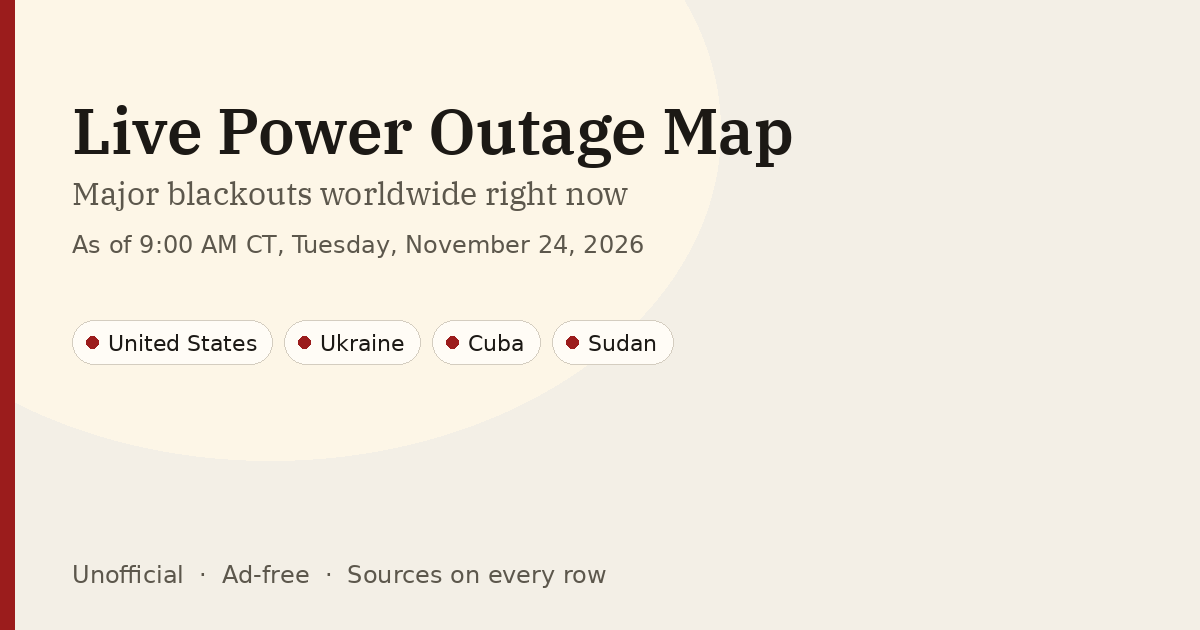
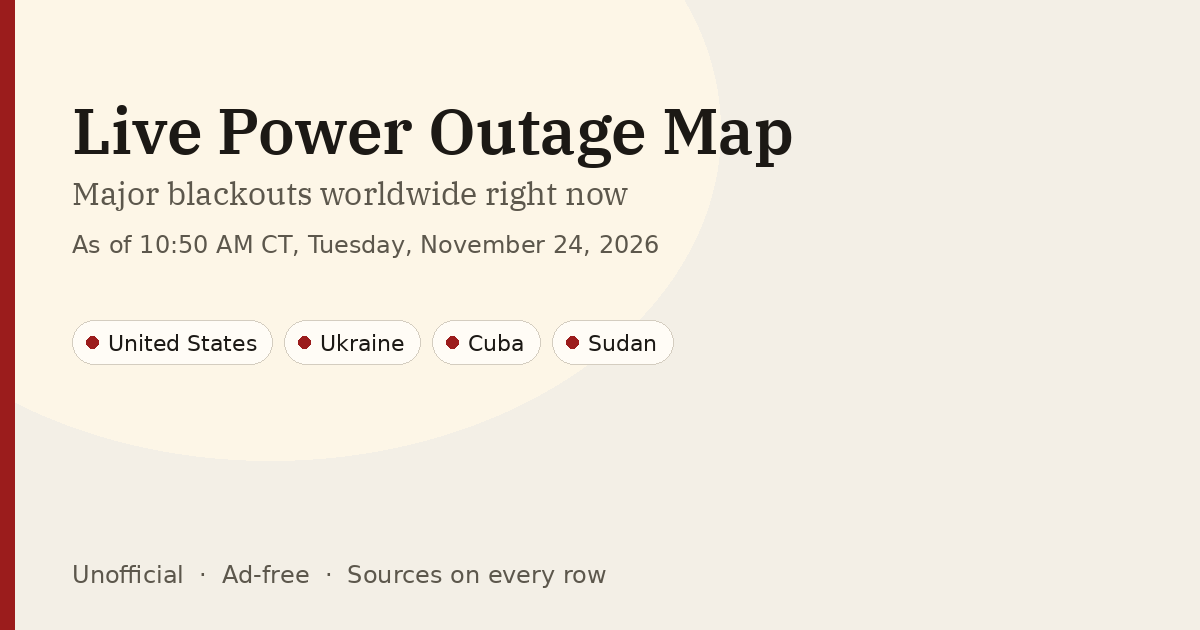
Update US outage data (11:12 AM CT)

Changed region(s): [[0.1233, 0.3619, 0.555, 0.4222]]

diff --git a/index.html b/index.html
@@ -62,7 +62,7 @@
       "about": {
         "@id": "https://blackoutsmap.com/#dataset"
       },
-      "dateModified": "2026-11-24T09:00:00-06:00",
+      "dateModified": "2026-11-24T10:50:00-06:00",
       "primaryImageOfPage": "https://blackoutsmap.com/og-image.png",
       "inLanguage": "en"
     },
@@ -73,8 +73,8 @@
       "description": "A frequently updated list of significant power outages and electricity shortfalls worldwide. Each record gives the place, country or region, cause, customers affected or MW shortfall, start time, estimated restoration time when published, the source URL, and when it was last checked. US figures come from MassOutage (CC BY 4.0), with some state and territory counts from PowerOutage.us; other rows come from utility, grid operator, and news reports linked on each row. US data refreshes about hourly; the worldwide list updates a few times a day.",
       "url": "https://blackoutsmap.com/",
       "isAccessibleForFree": true,
-      "dateModified": "2026-11-24T09:00:00-06:00",
-      "temporalCoverage": "2026-11-24T09:00:00-06:00",
+      "dateModified": "2026-11-24T10:50:00-06:00",
+      "temporalCoverage": "2026-11-24T10:50:00-06:00",
       "spatialCoverage": {
         "@type": "Place",
         "name": "Worldwide"
@@ -196,7 +196,7 @@
     <main>
     <header class="top">
       <h1>Live Power Outage Map</h1>
-      <p class="dateline">As of <strong id="as-of">9:00 AM CT, Tuesday, November 24, 2026</strong><br>Times in Central Time (CT)</p>
+      <p class="dateline">As of <strong id="as-of">10:50 AM CT, Tuesday, November 24, 2026</strong><br>Times in Central Time (CT)</p>
     </header>
 
     <p class="intro">This free, ad-free map tracks significant power outages and blackouts around the world right now. Each outage shows where it is, how many customers are affected, the cause, and the estimated restoration time when one is published, with a link to the source. It is unofficial: for your own address, check your electric utility's outage map. <a href="#faq">How this map works</a></p>
@@ -207,7 +207,7 @@
 
 
     <div class="metrics" id="metrics">
-      <article class="metric" id="metric-us"><!-- build:metric-us --><div class="label">United States</div><div class="value">46,744</div><div class="detail">46,744 customers out</div><!-- /build:metric-us --></article>
+      <article class="metric" id="metric-us"><!-- build:metric-us --><div class="label">United States</div><div class="value">70,536</div><div class="detail">70,536 customers out</div><!-- /build:metric-us --></article>
     </div>
 
     <nav class="region-nav" id="region-nav" aria-label="Outages by country">
@@ -249,12 +249,12 @@
             </tr>
           </thead>
           <tbody id="outage-body"><!-- build:table -->
-<tr><td class="place-cell"><a class="place-link" href="us/">United States</a></td><td>Nationwide</td><td class="empty">—</td><td>46,744 customers out</td><td class="empty">—</td><td class="empty">—</td><td><a href="https://massoutage.com/" target="_blank" rel="noopener noreferrer">MassOutage + PowerOutage.us</a></td><td>9:00 AM CT</td></tr>
-<tr><td class="place-cell"><a class="place-link" href="us/">Texas</a></td><td>United States</td><td class="empty">—</td><td>5,839 customers out</td><td class="empty">—</td><td class="empty">—</td><td><a href="https://massoutage.com/texas" target="_blank" rel="noopener noreferrer">MassOutage</a></td><td>9:00 AM CT</td></tr>
-<tr><td class="place-cell"><a class="place-link" href="us/">South Carolina</a></td><td>United States</td><td class="empty">—</td><td>4,663 customers out</td><td class="empty">—</td><td class="empty">—</td><td><a href="https://massoutage.com/south-carolina" target="_blank" rel="noopener noreferrer">MassOutage</a></td><td>9:00 AM CT</td></tr>
-<tr><td class="place-cell"><a class="place-link" href="us/">California</a></td><td>United States</td><td class="empty">—</td><td>4,592 customers out</td><td class="empty">—</td><td class="empty">—</td><td><a href="https://poweroutage.us/area/state/california" target="_blank" rel="noopener noreferrer">PowerOutage.us</a></td><td>2:13 AM CT</td></tr>
-<tr><td class="place-cell"><a class="place-link" href="us/">New Jersey</a></td><td>United States</td><td class="empty">—</td><td>3,205 customers out</td><td class="empty">—</td><td class="empty">—</td><td><a href="https://massoutage.com/new-jersey" target="_blank" rel="noopener noreferrer">MassOutage</a></td><td>9:00 AM CT</td></tr>
-<tr><td class="place-cell"><a class="place-link" href="us/">North Carolina</a></td><td>United States</td><td class="empty">—</td><td>2,737 customers out</td><td class="empty">—</td><td class="empty">—</td><td><a href="https://massoutage.com/north-carolina" target="_blank" rel="noopener noreferrer">MassOutage</a></td><td>9:00 AM CT</td></tr>
+<tr><td class="place-cell"><a class="place-link" href="us/">United States</a></td><td>Nationwide</td><td class="empty">—</td><td>70,536 customers out</td><td class="empty">—</td><td class="empty">—</td><td><a href="https://massoutage.com/" target="_blank" rel="noopener noreferrer">MassOutage + PowerOutage.us</a></td><td>10:50 AM CT</td></tr>
+<tr><td class="place-cell"><a class="place-link" href="us/">Washington</a></td><td>United States</td><td class="empty">—</td><td>15,820 customers out</td><td class="empty">—</td><td class="empty">—</td><td><a href="https://massoutage.com/washington" target="_blank" rel="noopener noreferrer">MassOutage</a></td><td>10:50 AM CT</td></tr>
+<tr><td class="place-cell"><a class="place-link" href="us/">California</a></td><td>United States</td><td class="empty">—</td><td>10,097 customers out</td><td class="empty">—</td><td class="empty">—</td><td><a href="https://massoutage.com/california" target="_blank" rel="noopener noreferrer">MassOutage</a></td><td>10:50 AM CT</td></tr>
+<tr><td class="place-cell"><a class="place-link" href="us/">Texas</a></td><td>United States</td><td class="empty">—</td><td>5,804 customers out</td><td class="empty">—</td><td class="empty">—</td><td><a href="https://massoutage.com/texas" target="_blank" rel="noopener noreferrer">MassOutage</a></td><td>10:50 AM CT</td></tr>
+<tr><td class="place-cell"><a class="place-link" href="us/">North Carolina</a></td><td>United States</td><td class="empty">—</td><td>2,729 customers out</td><td class="empty">—</td><td class="empty">—</td><td><a href="https://massoutage.com/north-carolina" target="_blank" rel="noopener noreferrer">MassOutage</a></td><td>10:50 AM CT</td></tr>
+<tr><td class="place-cell"><a class="place-link" href="us/">Oregon</a></td><td>United States</td><td class="empty">—</td><td>2,544 customers out</td><td class="empty">—</td><td class="empty">—</td><td><a href="https://massoutage.com/oregon" target="_blank" rel="noopener noreferrer">MassOutage</a></td><td>10:50 AM CT</td></tr>
 <tr><td class="place-cell"><a class="place-link" href="ukraine/">Kyiv and nationwide</a></td><td>Ukraine</td><td class="clamp-cell"><span class="clamp-preview">Rolling and emergency blackouts after Russian attacks on energy</span><span class="clamp-full" id="clamp-full-1">Rolling and emergency blackouts after Russian attacks on energy infrastructure, including a large-scale attack on Nov 20 and further strikes reported on Nov 21, Nov 22, and Nov 23. Hromadske Radio, in a Nov 24 report, said Russian forces had attacked civilian and energy infrastructure in Zhytomyr region over Nov 23 and into the night, and that on the morning of Tuesday, Nov 24, they attacked the north of Rivne region, with energy facilities under attack. Ukrenergo said planned outage schedules would be in effect around the clock on Tuesday, Nov 24, in parts of the country because of those attacks</span><button type="button" class="clamp-toggle" aria-expanded="false" aria-label="Show full text" aria-controls="clamp-full-1">…</button></td><td class="clamp-cell"><span class="clamp-preview">Ukrenergo, as reported by Ukrinform at 11:08 a.m. Tuesday, Nov 24 (3:08</span><span class="clamp-full" id="clamp-full-2">Ukrenergo, as reported by Ukrinform at 11:08 a.m. Tuesday, Nov 24 (3:08 a.m. CT) and by DS News at 11:48 a.m. Tuesday, Nov 24 (3:48 a.m. CT), said that as of Tuesday morning, as a result of Russian attacks, there were de-energized consumers in Zhytomyr, Zaporizhzhia, Rivne, Kharkiv, and Chernihiv regions, and that emergency outages were being applied in Kharkiv region as of that hour. Those reports, citing Ukrenergo, also said that on Tuesday, Nov 24, planned restrictions would be in effect around the clock in parts of Ukraine: hourly outage schedules of 0.5 to 3.5 groups, or queues, for all categories of consumers, and capacity-limitation schedules for industrial consumers. Hromadske Radio, in a Nov 24 report citing Ukrenergo, gave the same Tuesday-morning account of de-energized consumers in those five regions and of emergency outages in Kharkiv region, and said that over the previous day and night Russian forces had attacked civilian and energy infrastructure in Zhytomyr region, and that on the morning of Tuesday, Nov 24, they had attacked the north of Rivne region, with energy facilities under attack. An earlier Monday evening Ukrenergo statement, as reported by LB.ua at 7:20 p.m. Monday, Nov 23 (11:20 a.m. CT if Kyiv time / EET), by UNIAN at 8:59 p.m. Monday, Nov 23 (12:59 p.m. CT if Kyiv time / EET), and by UNN at 5:13 p.m. Monday, Nov 23 (9:13 a.m. CT if Kyiv time / EET), had already said that on Tuesday, Nov 24, scheduled power-supply restrictions would be in effect around the clock in parts of Ukraine because of the aftermath of Russian attacks on the energy system, with the same 0.5 to 3.5 queues for all categories of consumers and capacity-limitation schedules for industry. UNIAN, citing Ukrenergo, said those 0.5 to 3.5 queues amounted to about 2 to 14 hours without power, and UNN likewise said one group means four hours without electricity, so Tuesday outages may last from 2 to 14 hours. UNIAN also summarized Tuesday regional schedules, saying that in Sumy and the Sumy region the total duration without power would be from six to 14 hours; that in Lviv and the Lviv region some queues had no outages scheduled and the rest would be switched off once for two to four and a half hours; that in Poltava and the Poltava region customers would be switched off four times a day, except for two half-queues with three and five periods, with each outage lasting from half an hour to three and a half hours; and that Kyiv schedules would be applied individually and should be checked through local operators. LB.ua, in the same Nov 23 report, said that at present the most difficult situation with electricity supply remained in Dnipropetrovsk and Odesa regions. Kyiv Independent, in an article dated 9:19 p.m. Monday, Nov 23 (1:19 p.m. CT if Kyiv time / EET), citing the private energy company DTEK, said Russian attacks on four DTEK energy facilities in Dnipropetrovsk Oblast over Nov 21 and Nov 22 had left about 353,000 households without electricity, that emergency power cuts were in effect in Dnipro and the Dniprovskyi, Samarivskyi, Kamianskyi, and Pavlohradskyi districts, with regular outage schedules suspended there, and that other parts of the region were subject to scheduled cuts ordered by Ukrenergo. Earlier Monday, Kyiv Post, in an article dated 2:18 p.m. Monday, Nov 23 (7:18 a.m. CT if Kyiv time / EET), citing Ukraine&#x27;s Energy Ministry and First Deputy Energy Minister Artem Nekrasov, said Russia had carried out 100 attacks on Ukraine&#x27;s energy, oil, and gas infrastructure over the past week, contributing to 224 recorded damage incidents, and that power outages had continued to affect seven regions on Monday, Nov 23: Dnipropetrovsk, Donetsk, Zhytomyr, Sumy, Kharkiv, Odesa, and Poltava, with the situation remaining particularly difficult in Odesa and Dnipropetrovsk regions. No official nationwide customer count was found as of 6:00 AM CT Tuesday, Nov 24 (2:00 p.m. EET).</span><button type="button" class="clamp-toggle" aria-expanded="false" aria-label="Show full text" aria-controls="clamp-full-2">…</button></td><td class="empty">—</td><td class="empty">—</td><td><a href="https://www.ukrinform.ua/rubric-economy/4187973-cerez-rosijski-ataki-e-znestrumlenna-u-pati-oblastah-ukrenergo.html" target="_blank" rel="noopener noreferrer">ukrinform.ua</a></td><td class="clamp-cell"><span class="clamp-preview">Nov 24, 2026, Ukrenergo Tuesday morning statement via Ukrinform 11:08</span><span class="clamp-full" id="clamp-full-3">Nov 24, 2026, Ukrenergo Tuesday morning statement via Ukrinform 11:08 a.m. Tuesday, Nov 24 (= 3:08 a.m. CT) and DS News 11:48 a.m. Tuesday (= 3:48 a.m. CT), on de-energized consumers as of Tuesday morning in Zhytomyr, Zaporizhzhia, Rivne, Kharkiv, and Chernihiv regions after Russian attacks, and emergency outages being applied in Kharkiv region; Hromadske Radio, in a Nov 24 report, on attacks on civilian and energy infrastructure in Zhytomyr region over Nov 23 and into the night, and a Tuesday morning attack on energy facilities in northern Rivne region; earlier Monday evening Ukrenergo Tuesday, Nov 24, schedules of 0.5 to 3.5 queues around the clock, and industrial capacity limits, via LB.ua 7:20 p.m. Monday, Nov 23 (= 11:20 a.m. CT if Kyiv time / EET), UNIAN 8:59 p.m. Monday (= 12:59 p.m. CT if Kyiv time / EET), and UNN 5:13 p.m. Monday (= 9:13 a.m. CT if Kyiv time / EET), with UNIAN and UNN saying those queues amounted to about 2 to 14 hours, and LB.ua saying the most difficult supply situation remained in Dnipropetrovsk and Odesa regions; earlier Kyiv Independent dated 9:19 p.m. Monday, Nov 23 (= 1:19 p.m. CT if Kyiv time / EET), citing DTEK, on about 353,000 households without power in Dnipropetrovsk Oblast after attacks on four DTEK facilities on Nov 21-22; earlier Kyiv Post dated 2:18 p.m. Monday, Nov 23 (= 7:18 a.m. CT if Kyiv time / EET), citing the Energy Ministry and First Deputy Energy Minister Artem Nekrasov, on 100 attacks on energy, oil, and gas infrastructure in the past week with 224 damage incidents, and outages in seven regions on Monday with Odesa and Dnipropetrovsk among the hardest hit; rechecked 6:00 AM CT Tuesday, Nov 24 (2:00 p.m. EET), no official nationwide customer count found</span><button type="button" class="clamp-toggle" aria-expanded="false" aria-label="Show full text" aria-controls="clamp-full-3">…</button></td></tr>
 <tr><td class="place-cell"><a class="place-link" href="ukraine/">Odesa and parts of Odesa district</a></td><td>Odesa, Ukraine</td><td class="clamp-cell"><span class="clamp-preview">Repeated Russian attacks on high-voltage transmission networks and</span><span class="clamp-full" id="clamp-full-4">Repeated Russian attacks on high-voltage transmission networks and other energy facilities critical to the region, including a strike on a DTEK Odeski Elektromerezhi energy facility on the morning of Nov 20. On Monday, Nov 23, Odesa regional governor Oleh Kiper said scheduled power-outage timetables were being reinstated in place of emergency blackouts after energy workers restored damaged infrastructure, and DTEK Odeski Elektromerezhi said repairs had made a return to stabilization schedules possible, while warning that the energy system remained vulnerable to significant loads. Tuesday sources said those stabilization schedules remained in effect on Nov 24</span><button type="button" class="clamp-toggle" aria-expanded="false" aria-label="Show full text" aria-controls="clamp-full-4">…</button></td><td class="clamp-cell"><span class="clamp-preview">Ukrenergo, as published by Malva.TV at 7:49 a.m. Tuesday, Nov 24 (11:49</span><span class="clamp-full" id="clamp-full-5">Ukrenergo, as published by Malva.TV at 7:49 a.m. Tuesday, Nov 24 (11:49 p.m. CT Monday), said overnight restoration work had continued in Odesa region, where energy infrastructure had been significantly damaged by Russian attacks, that the situation in Odesa region had been partially stabilized, and that electricity supply to critical infrastructure in Odesa had been restored. Novyny.LIVE, at 9:31 a.m. Tuesday, Nov 24 (1:31 a.m. CT), citing DTEK, said DTEK Odeski Elektromerezhi was applying hourly stabilization-outage schedules in Odesa and the region on Tuesday, Nov 24, through 12:00 a.m., that outages were assigned by group, and that the schedule could change depending on the state of the energy system; the same report said tram and trolleybus service in Odesa had resumed after the widespread blackout, with average intervals of 15 to 20 minutes, and that from 9:00 a.m. to 6:00 p.m. Tuesday repair work in the Peresypskyi district would de-energize traction substations feeding tram routes 1 and 7 on a named section. OdesaVoice, in a Nov 24 report, citing First Deputy Mayor Oleksandr Filatov, said electricity supply to all critically important infrastructure in Odesa had been restored after two days of outages caused by strikes on main transmission networks, that water supply and wastewater systems were fully operating in all districts of the city, that all district and small boiler houses had been restored, that heat had begun to reach hospitals, educational institutions, other social facilities, and residential buildings, and that schools and kindergartens that had heat restored on Nov 23 would operate in the normal mode on Nov 24; the same report said 27 social buses were running to supplement trolleybuses and trams, and that about 300 Points of Invincibility were operating in the city. Odesa regional governor Oleh Kiper, as reported by LB.ua at 8:03 p.m. Monday, Nov 23 (12:03 p.m. CT if Kyiv time / EET), had said that in Odesa and Odesa District, scheduled power-outage timetables were being reinstated in place of emergency blackouts, that the return to planned schedules had become possible because of continuous work by energy workers restoring damaged infrastructure, and that residents were being urged to use electricity sparingly so as not to overload the power system and cause new emergency outages. DTEK Odeski Elektromerezhi, in a Nov 23 statement on its website, said that thanks to difficult repairs and the restoration of equipment, energy workers had been able to return to stabilization schedules, that the energy system remained vulnerable to significant loads, and that customers should not turn on all electrical appliances at once when power returned, in order to avoid overloading the networks and causing new accidents. An earlier Monday statement by Kiper, as reported by Censor.NET at 12:35 p.m. EET Monday, Nov 23 (4:35 a.m. CT), by UNN at 10:11 a.m. Kyiv time Monday (2:11 a.m. CT), and by Slovo i Dilo at 12:38 p.m. EET Monday (4:38 a.m. CT), had said the electricity-supply situation in Odesa region remained difficult but that measures were being taken to stabilize it; that emergency outages without schedules were still being applied because the damaged equipment could not yet supply all consumers at once; that all critical infrastructure and some consumers had already been energized; that water was available in all districts, with possible pumping interruptions in some apartment buildings; that 9 of 11 large boiler houses were operating, with 2 more plus the CHP being brought online; that heat had already been supplied to 186,000 subscribers; and that about 79,000 consumers remained temporarily without heating. No official remaining-electricity-customer count after the earlier Friday DTEK figures was found as of 6:00 AM CT Tuesday, Nov 24 (2:00 p.m. EET).</span><button type="button" class="clamp-toggle" aria-expanded="false" aria-label="Show full text" aria-controls="clamp-full-5">…</button></td><td>Morning of Nov 20, 2026 (Kyiv time)</td><td class="empty">—</td><td><a href="https://odesa.novyny.live/grafiki-vidkliuchen-na-24-listopada-koli-v-odesitiv-bude-svitlo-355979.html" target="_blank" rel="noopener noreferrer">odesa.novyny.live</a></td><td class="clamp-cell"><span class="clamp-preview">Nov 24, 2026, Ukrenergo via Malva.TV 7:49 a.m. Tuesday, Nov 24 (= 11:49</span><span class="clamp-full" id="clamp-full-6">Nov 24, 2026, Ukrenergo via Malva.TV 7:49 a.m. Tuesday, Nov 24 (= 11:49 p.m. CT Monday), on overnight restoration work in Odesa region, a partially stabilized situation, and restored electricity supply to critical infrastructure in Odesa; Novyny.LIVE 9:31 a.m. Tuesday (= 1:31 a.m. CT), citing DTEK, on hourly stabilization-outage schedules in Odesa and the region through midnight Tuesday, resumed tram and trolleybus service, and Tuesday repair work in the Peresypskyi district; OdesaVoice, in a Nov 24 report citing First Deputy Mayor Oleksandr Filatov, on restored power to all critically important infrastructure, water and wastewater operating in all districts, restored boiler houses, heat beginning to reach hospitals, schools, and residential buildings, schools and kindergartens that had heat restored Nov 23 operating normally on Nov 24, 27 social buses, and about 300 Points of Invincibility; earlier Nov 23, Odesa regional governor Oleh Kiper via LB.ua 8:03 p.m. Monday (= 12:03 p.m. CT if Kyiv time / EET), on scheduled power-outage timetables being reinstated in Odesa and Odesa District in place of emergency blackouts; DTEK Odeski Elektromerezhi Nov 23 website statement on a return to stabilization schedules, the system remaining vulnerable to significant loads, and a request not to turn on all appliances at once; earlier Monday Kiper statement via Censor.NET, UNN, and Slovo i Dilo on a then still-difficult supply situation, emergency outages then still being applied, heat already supplied to 186,000 subscribers, and about 79,000 consumers temporarily without heating; rechecked 6:00 AM CT Tuesday, Nov 24 (2:00 p.m. EET), no official remaining-electricity-customer count after the earlier Friday DTEK figures found</span><button type="button" class="clamp-toggle" aria-expanded="false" aria-label="Show full text" aria-controls="clamp-full-6">…</button></td></tr>
 <tr><td class="place-cell"><a class="place-link" href="ukraine/">Dnipro, Samar, and parts of Dnipropetrovsk region, including Dniprovskyi, Samarivskyi, Kamianske, and Pavlohrad districts</a></td><td>Dnipropetrovsk, Ukraine</td><td class="clamp-cell"><span class="clamp-preview">Russian attacks on four DTEK energy facilities in Dnipropetrovsk Oblast</span><span class="clamp-full" id="clamp-full-7">Russian attacks on four DTEK energy facilities in Dnipropetrovsk Oblast over Nov 21 and Nov 22, according to DTEK, which said most of the facilities had been struck before, that equipment was damaged and fires broke out at several sites, and that damage to main transmission networks meant not all consumers could yet be reconnected. On Monday, Nov 23, emergency outages were in effect in Dnipro and in the Dniprovskyi, Samarivskyi, Kamianskyi, and Pavlohradskyi districts, where regular hourly schedules were not being applied. Ukrenergo, in a Tuesday morning statement, said the situation in Dnipropetrovsk region remained significantly more difficult and that hourly outage schedules were in effect</span><button type="button" class="clamp-toggle" aria-expanded="false" aria-label="Show full text" aria-controls="clamp-full-7">…</button></td><td class="clamp-cell"><span class="clamp-preview">Ukrenergo, as published by Malva.TV at 7:49 a.m. Tuesday, Nov 24 (11:49</span><span class="clamp-full" id="clamp-full-8">Ukrenergo, as published by Malva.TV at 7:49 a.m. Tuesday, Nov 24 (11:49 p.m. CT Monday), said overnight restoration work had continued in Dnipropetrovsk region, where energy infrastructure had been significantly damaged by Russian attacks, that the situation there remained significantly more difficult, that hourly outage schedules were in effect in the region, and that energy workers were continuing work in order to reduce the volume of restrictions as quickly as possible. The Dnipro City Council, in a statement dated 7:17 a.m. Tuesday, Nov 24 (11:17 p.m. CT Monday), said that because traction substations feeding the electric-transport contact network had been de-energized, tram and trolleybus service had been partially suspended, and that as of 7:00 a.m. Tuesday (11:00 p.m. CT Monday) tram routes 1, 11, 12, 14, 15, 16, 17, 18, and 19 were suspended, tram route 5 was running on a shortened route, many trolleybus routes including ring B were suspended, some trolleybus routes including ring A were running, and the metro was operating on a weekend schedule. Dnepr.info, at 11:06 a.m. Tuesday, Nov 24 (3:06 a.m. CT), said disruptions to electric transport were continuing, with some tram and trolleybus routes then running full or shortened routes and a number of routes still suspended. DTEK, as reported by Kyiv Independent in an article dated 9:19 p.m. Monday, Nov 23 (1:19 p.m. CT if Kyiv time / EET), by NV at 3:46 p.m. Monday, Nov 23 (7:46 a.m. CT if Kyiv time / EET), and by Delo.ua, said Russian attacks on four of its energy facilities in Dnipropetrovsk Oblast over two days, Nov 21 and Nov 22, had left about 353,000 households without electricity. Those reports, citing DTEK, said a significant part of Dnipro, the city of Samar, and adjacent districts had been left without power; that the facilities were hit in Dnipro and surrounding areas, damaging equipment and causing fires at several sites; that most of the facilities had been struck before; and that no energy workers were injured in the recent attacks. DTEK said emergency repair crews had worked through the night and were continuing restoration efforts, prioritizing electricity supplies to critical infrastructure, but that damage to main transmission networks meant technicians could not yet reconnect all consumers, and it did not give a timeline for restoring power to all affected households. Emergency power cuts were in effect in Dnipro and the Dniprovskyi, Samarivskyi, Kamianskyi, and Pavlohradskyi districts, with regular outage schedules suspended there; other parts of the region were subject to scheduled cuts ordered by Ukrenergo. An earlier Monday morning account from Ukrenergo, as reported by UNN at 10:11 a.m. Kyiv time Monday, Nov 23 (2:11 a.m. CT) and by Slovo i Dilo at 12:38 p.m. EET Monday (4:38 a.m. CT), had said the Dnipropetrovsk Oblast situation remained significantly more difficult, with hourly outage schedules in effect and overnight restoration work after significant damage from Russian attacks. Dnipropetrovsk regional council head Mykola Lukashuk, via Vidomo at 10:59 a.m. Monday (2:59 a.m. CT if Kyiv time / EET), had said emergency outages remained in effect in Dnipro and in the Dniprovskyi, Samarivskyi, Kamianske, and Pavlohrad districts, where DTEK hourly schedules were not being applied, with an hourly schedule in effect for Central Energy Company (CEK) customers and a separate schedule for part of Pavlohrad. No later official remaining-customer count after the DTEK figure of about 353,000 households was found as of 6:00 AM CT Tuesday, Nov 24 (2:00 p.m. EET).</span><button type="button" class="clamp-toggle" aria-expanded="false" aria-label="Show full text" aria-controls="clamp-full-8">…</button></td><td class="empty">—</td><td class="empty">—</td><td><a href="https://malva.tv/20261124/stan-enerhosystemy-sytuacija-na-odeshchyni-ta-dnipropetrovshchyni-usju-nich-tryvaly-vidnovljuvaljni-roboty-na-odeshchyni-ta-dnipropetrovshchyni/" target="_blank" rel="noopener noreferrer">malva.tv</a></td><td class="clamp-cell"><span class="clamp-preview">Nov 24, 2026, Ukrenergo via Malva.TV 7:49 a.m. Tuesday, Nov 24 (= 11:49</span><span class="clamp-full" id="clamp-full-9">Nov 24, 2026, Ukrenergo via Malva.TV 7:49 a.m. Tuesday, Nov 24 (= 11:49 p.m. CT Monday), on overnight restoration work in Dnipropetrovsk region, the situation remaining significantly more difficult, hourly outage schedules in effect, and work continuing to reduce the volume of restrictions; Dnipro City Council dated 7:17 a.m. Tuesday (= 11:17 p.m. CT Monday), as of 7:00 a.m. Tuesday, on de-energized traction substations and partially suspended tram and trolleybus service, with the metro on a weekend schedule; Dnepr.info 11:06 a.m. Tuesday (= 3:06 a.m. CT), on continuing electric-transport disruptions with some routes running and others still suspended; earlier DTEK via Kyiv Independent dated 9:19 p.m. Monday, Nov 23 (= 1:19 p.m. CT if Kyiv time / EET), NV 3:46 p.m. Monday (= 7:46 a.m. CT if Kyiv time / EET), and Delo.ua, on about 353,000 households without power after attacks on four DTEK facilities on Nov 21-22, a significant part of Dnipro, Samar, and adjacent districts left without power, emergency cuts in Dnipro and four districts, scheduled cuts elsewhere in the region, overnight repairs prioritizing critical infrastructure, and no timeline for full restoration; earlier Monday morning Ukrenergo update via UNN and Slovo i Dilo, and Dnipropetrovsk regional council head Mykola Lukashuk via Vidomo, on emergency outages in Dnipro and four districts; rechecked 6:00 AM CT Tuesday, Nov 24 (2:00 p.m. EET), no later official remaining-customer count after the DTEK figure of about 353,000 households found</span><button type="button" class="clamp-toggle" aria-expanded="false" aria-label="Show full text" aria-controls="clamp-full-9">…</button></td></tr>
@@ -308,11 +308,11 @@
       <h2>Sources</h2>
       <ul id="source-list"><!-- build:sources -->
       <li><a href="https://massoutage.com/" target="_blank" rel="noopener noreferrer">MassOutage + PowerOutage.us</a></li>
+<li><a href="https://massoutage.com/washington" target="_blank" rel="noopener noreferrer">MassOutage</a></li>
+<li><a href="https://massoutage.com/california" target="_blank" rel="noopener noreferrer">MassOutage</a></li>
 <li><a href="https://massoutage.com/texas" target="_blank" rel="noopener noreferrer">MassOutage</a></li>
-<li><a href="https://massoutage.com/south-carolina" target="_blank" rel="noopener noreferrer">MassOutage</a></li>
-<li><a href="https://poweroutage.us/area/state/california" target="_blank" rel="noopener noreferrer">PowerOutage.us</a></li>
-<li><a href="https://massoutage.com/new-jersey" target="_blank" rel="noopener noreferrer">MassOutage</a></li>
 <li><a href="https://massoutage.com/north-carolina" target="_blank" rel="noopener noreferrer">MassOutage</a></li>
+<li><a href="https://massoutage.com/oregon" target="_blank" rel="noopener noreferrer">MassOutage</a></li>
 <li><a href="https://www.ukrinform.ua/rubric-economy/4187973-cerez-rosijski-ataki-e-znestrumlenna-u-pati-oblastah-ukrenergo.html" target="_blank" rel="noopener noreferrer">ukrinform.ua</a></li>
 <li><a href="https://odesa.novyny.live/grafiki-vidkliuchen-na-24-listopada-koli-v-odesitiv-bude-svitlo-355979.html" target="_blank" rel="noopener noreferrer">odesa.novyny.live</a></li>
 <li><a href="https://malva.tv/20261124/stan-enerhosystemy-sytuacija-na-odeshchyni-ta-dnipropetrovshchyni-usju-nich-tryvaly-vidnovljuvaljni-roboty-na-odeshchyni-ta-dnipropetrovshchyni/" target="_blank" rel="noopener noreferrer">malva.tv</a></li>
@@ -355,11 +355,11 @@
     /* build:region-hrefs */
     const REGION_HREFS = {
       "United States|Nationwide": "us/",
-      "Texas|United States": "us/",
-      "South Carolina|United States": "us/",
+      "Washington|United States": "us/",
       "California|United States": "us/",
-      "New Jersey|United States": "us/",
+      "Texas|United States": "us/",
       "North Carolina|United States": "us/",
+      "Oregon|United States": "us/",
       "Kyiv and nationwide|Ukraine": "ukraine/",
       "Odesa and parts of Odesa district|Odesa, Ukraine": "ukraine/",
       "Dnipro, Samar, and parts of Dnipropetrovsk region, including Dniprovskyi, Samarivskyi, Kamianske, and Pavlohrad districts|Dnipropetrovsk, Ukraine": "ukraine/",

diff --git a/us/index.html b/us/index.html
@@ -4,7 +4,7 @@
   <meta charset="utf-8">
   <meta name="viewport" content="width=device-width, initial-scale=1">
   <title>US Power Outage Today | Live Power Outage Map</title>
-  <meta name="description" content="Power outages in the United States right now: customers affected, causes, and restoration times, with sources. United States: 46,744 customers out Texas: 5,839 customers out">
+  <meta name="description" content="Power outages in the United States right now: customers affected, causes, and restoration times, with sources. United States: 70,536 customers out Washington: 15,820 customers out">
   <meta name="robots" content="index,follow,max-image-preview:large,max-snippet:-1">
   <meta name="theme-color" content="#f3efe6">
   <link rel="canonical" href="https://blackoutsmap.com/us/">
@@ -12,7 +12,7 @@
   <link rel="stylesheet" href="../site.css">
   <meta property="og:type" content="website">
   <meta property="og:title" content="US Power Outage Today | Live Power Outage Map">
-  <meta property="og:description" content="Power outages in the United States right now: customers affected, causes, and restoration times, with sources. United States: 46,744 customers out Texas: 5,839 customers out">
+  <meta property="og:description" content="Power outages in the United States right now: customers affected, causes, and restoration times, with sources. United States: 70,536 customers out Washington: 15,820 customers out">
   <meta property="og:url" content="https://blackoutsmap.com/us/">
   <meta property="og:site_name" content="Live Power Outage Map">
   <meta property="og:locale" content="en_US">
@@ -23,7 +23,7 @@
   <meta property="og:image:alt" content="Live Power Outage Map: major blackouts worldwide right now">
   <meta name="twitter:card" content="summary_large_image">
   <meta name="twitter:title" content="US Power Outage Today | Live Power Outage Map">
-  <meta name="twitter:description" content="Power outages in the United States right now: customers affected, causes, and restoration times, with sources. United States: 46,744 customers out Texas: 5,839 customers out">
+  <meta name="twitter:description" content="Power outages in the United States right now: customers affected, causes, and restoration times, with sources. United States: 70,536 customers out Washington: 15,820 customers out">
   <meta name="twitter:image" content="https://blackoutsmap.com/og-image.png">
   <meta name="twitter:image:alt" content="Live Power Outage Map: major blackouts worldwide right now">
 
@@ -36,14 +36,14 @@
       "@id": "https://blackoutsmap.com/us/#webpage",
       "name": "US Power Outage Today",
       "url": "https://blackoutsmap.com/us/",
-      "description": "Power outages in the United States right now: customers affected, causes, and restoration times, with sources. United States: 46,744 customers out Texas: 5,839 customers out",
+      "description": "Power outages in the United States right now: customers affected, causes, and restoration times, with sources. United States: 70,536 customers out Washington: 15,820 customers out",
       "isPartOf": {
         "@type": "WebSite",
         "@id": "https://blackoutsmap.com/#website",
         "name": "Live Power Outage Map",
         "url": "https://blackoutsmap.com/"
       },
-      "dateModified": "2026-11-24T09:00:00-06:00",
+      "dateModified": "2026-11-24T10:50:00-06:00",
       "inLanguage": "en",
       "breadcrumb": {
         "@id": "https://blackoutsmap.com/us/#breadcrumb"
@@ -86,7 +86,7 @@
     <nav class="breadcrumb back-link" aria-label="Breadcrumb"><a href="../">← Live worldwide power outage map</a> <span aria-hidden="true">/</span> <span aria-current="page">US Power Outage Today</span></nav>
     <header class="top">
       <h1>US Power Outage Today</h1>
-      <p class="dateline">As of <strong>9:00 AM CT, Tuesday, November 24, 2026</strong><br>Times in Central Time (CT)</p>
+      <p class="dateline">As of <strong>10:50 AM CT, Tuesday, November 24, 2026</strong><br>Times in Central Time (CT)</p>
     </header>
     <p class="region-lede">Unofficial snapshot of significant power outages in the United States. Figures come from public utility and news reports and are not invented. Confirm any outage with the local utility. For the latest worldwide list, see the <a href="../">live power outage map</a>.</p>
     <section class="panel" aria-labelledby="table-heading">
@@ -106,12 +106,12 @@
             </tr>
           </thead>
           <tbody>
-<tr><td class="place-cell"><a class="place-link" href="../us/">United States</a></td><td>Nationwide</td><td class="empty">—</td><td>46,744 customers out</td><td class="empty">—</td><td class="empty">—</td><td><a href="https://massoutage.com/" target="_blank" rel="noopener noreferrer">MassOutage + PowerOutage.us</a></td><td>9:00 AM CT</td></tr>
-<tr><td class="place-cell"><a class="place-link" href="../us/">Texas</a></td><td>United States</td><td class="empty">—</td><td>5,839 customers out</td><td class="empty">—</td><td class="empty">—</td><td><a href="https://massoutage.com/texas" target="_blank" rel="noopener noreferrer">MassOutage</a></td><td>9:00 AM CT</td></tr>
-<tr><td class="place-cell"><a class="place-link" href="../us/">South Carolina</a></td><td>United States</td><td class="empty">—</td><td>4,663 customers out</td><td class="empty">—</td><td class="empty">—</td><td><a href="https://massoutage.com/south-carolina" target="_blank" rel="noopener noreferrer">MassOutage</a></td><td>9:00 AM CT</td></tr>
-<tr><td class="place-cell"><a class="place-link" href="../us/">California</a></td><td>United States</td><td class="empty">—</td><td>4,592 customers out</td><td class="empty">—</td><td class="empty">—</td><td><a href="https://poweroutage.us/area/state/california" target="_blank" rel="noopener noreferrer">PowerOutage.us</a></td><td>2:13 AM CT</td></tr>
-<tr><td class="place-cell"><a class="place-link" href="../us/">New Jersey</a></td><td>United States</td><td class="empty">—</td><td>3,205 customers out</td><td class="empty">—</td><td class="empty">—</td><td><a href="https://massoutage.com/new-jersey" target="_blank" rel="noopener noreferrer">MassOutage</a></td><td>9:00 AM CT</td></tr>
-<tr><td class="place-cell"><a class="place-link" href="../us/">North Carolina</a></td><td>United States</td><td class="empty">—</td><td>2,737 customers out</td><td class="empty">—</td><td class="empty">—</td><td><a href="https://massoutage.com/north-carolina" target="_blank" rel="noopener noreferrer">MassOutage</a></td><td>9:00 AM CT</td></tr>
+<tr><td class="place-cell"><a class="place-link" href="../us/">United States</a></td><td>Nationwide</td><td class="empty">—</td><td>70,536 customers out</td><td class="empty">—</td><td class="empty">—</td><td><a href="https://massoutage.com/" target="_blank" rel="noopener noreferrer">MassOutage + PowerOutage.us</a></td><td>10:50 AM CT</td></tr>
+<tr><td class="place-cell"><a class="place-link" href="../us/">Washington</a></td><td>United States</td><td class="empty">—</td><td>15,820 customers out</td><td class="empty">—</td><td class="empty">—</td><td><a href="https://massoutage.com/washington" target="_blank" rel="noopener noreferrer">MassOutage</a></td><td>10:50 AM CT</td></tr>
+<tr><td class="place-cell"><a class="place-link" href="../us/">California</a></td><td>United States</td><td class="empty">—</td><td>10,097 customers out</td><td class="empty">—</td><td class="empty">—</td><td><a href="https://massoutage.com/california" target="_blank" rel="noopener noreferrer">MassOutage</a></td><td>10:50 AM CT</td></tr>
+<tr><td class="place-cell"><a class="place-link" href="../us/">Texas</a></td><td>United States</td><td class="empty">—</td><td>5,804 customers out</td><td class="empty">—</td><td class="empty">—</td><td><a href="https://massoutage.com/texas" target="_blank" rel="noopener noreferrer">MassOutage</a></td><td>10:50 AM CT</td></tr>
+<tr><td class="place-cell"><a class="place-link" href="../us/">North Carolina</a></td><td>United States</td><td class="empty">—</td><td>2,729 customers out</td><td class="empty">—</td><td class="empty">—</td><td><a href="https://massoutage.com/north-carolina" target="_blank" rel="noopener noreferrer">MassOutage</a></td><td>10:50 AM CT</td></tr>
+<tr><td class="place-cell"><a class="place-link" href="../us/">Oregon</a></td><td>United States</td><td class="empty">—</td><td>2,544 customers out</td><td class="empty">—</td><td class="empty">—</td><td><a href="https://massoutage.com/oregon" target="_blank" rel="noopener noreferrer">MassOutage</a></td><td>10:50 AM CT</td></tr>
           </tbody>
         </table>
       </div>
@@ -130,11 +130,11 @@
       <h2>Sources</h2>
       <ul>
 <li><a href="https://massoutage.com/" target="_blank" rel="noopener noreferrer">MassOutage + PowerOutage.us</a></li>
+<li><a href="https://massoutage.com/washington" target="_blank" rel="noopener noreferrer">MassOutage</a></li>
+<li><a href="https://massoutage.com/california" target="_blank" rel="noopener noreferrer">MassOutage</a></li>
 <li><a href="https://massoutage.com/texas" target="_blank" rel="noopener noreferrer">MassOutage</a></li>
-<li><a href="https://massoutage.com/south-carolina" target="_blank" rel="noopener noreferrer">MassOutage</a></li>
-<li><a href="https://poweroutage.us/area/state/california" target="_blank" rel="noopener noreferrer">PowerOutage.us</a></li>
-<li><a href="https://massoutage.com/new-jersey" target="_blank" rel="noopener noreferrer">MassOutage</a></li>
 <li><a href="https://massoutage.com/north-carolina" target="_blank" rel="noopener noreferrer">MassOutage</a></li>
+<li><a href="https://massoutage.com/oregon" target="_blank" rel="noopener noreferrer">MassOutage</a></li>
       </ul>
       <p>This is an unofficial snapshot compiled from public utility and news reports. It is not an official government or utility outage map. Confirm outages with the local utility. US outage figures are from <a href="https://massoutage.com/" target="_blank" rel="noopener noreferrer">MassOutage</a>, licensed <a href="https://creativecommons.org/licenses/by/4.0/" target="_blank" rel="noopener noreferrer">CC BY 4.0</a>; some state and territory counts also use PowerOutage.us.</p>
     </footer>

diff --git a/ukraine/index.html b/ukraine/index.html
@@ -43,7 +43,7 @@
         "name": "Live Power Outage Map",
         "url": "https://blackoutsmap.com/"
       },
-      "dateModified": "2026-11-24T09:00:00-06:00",
+      "dateModified": "2026-11-24T10:50:00-06:00",
       "inLanguage": "en",
       "breadcrumb": {
         "@id": "https://blackoutsmap.com/ukraine/#breadcrumb"
@@ -86,7 +86,7 @@
     <nav class="breadcrumb back-link" aria-label="Breadcrumb"><a href="../">← Live worldwide power outage map</a> <span aria-hidden="true">/</span> <span aria-current="page">Ukraine Power Outage Today</span></nav>
     <header class="top">
       <h1>Ukraine Power Outage Today</h1>
-      <p class="dateline">As of <strong>9:00 AM CT, Tuesday, November 24, 2026</strong><br>Times in Central Time (CT)</p>
+      <p class="dateline">As of <strong>10:50 AM CT, Tuesday, November 24, 2026</strong><br>Times in Central Time (CT)</p>
     </header>
     <p class="region-lede">Unofficial snapshot of significant power outages in Ukraine. Figures come from public utility and news reports and are not invented. Confirm any outage with the local utility. For the latest worldwide list, see the <a href="../">live power outage map</a>.</p>
     <section class="panel" aria-labelledby="table-heading">

diff --git a/sudan/index.html b/sudan/index.html
@@ -43,7 +43,7 @@
         "name": "Live Power Outage Map",
         "url": "https://blackoutsmap.com/"
       },
-      "dateModified": "2026-11-24T09:00:00-06:00",
+      "dateModified": "2026-11-24T10:50:00-06:00",
       "inLanguage": "en",
       "breadcrumb": {
         "@id": "https://blackoutsmap.com/sudan/#breadcrumb"
@@ -86,7 +86,7 @@
     <nav class="breadcrumb back-link" aria-label="Breadcrumb"><a href="../">← Live worldwide power outage map</a> <span aria-hidden="true">/</span> <span aria-current="page">Sudan Power Outage Today</span></nav>
     <header class="top">
       <h1>Sudan Power Outage Today</h1>
-      <p class="dateline">As of <strong>9:00 AM CT, Tuesday, November 24, 2026</strong><br>Times in Central Time (CT)</p>
+      <p class="dateline">As of <strong>10:50 AM CT, Tuesday, November 24, 2026</strong><br>Times in Central Time (CT)</p>
     </header>
     <p class="region-lede">Unofficial snapshot of significant power outages in Sudan. Figures come from public utility and news reports and are not invented. Confirm any outage with the local utility. For the latest worldwide list, see the <a href="../">live power outage map</a>.</p>
     <section class="panel" aria-labelledby="table-heading">

diff --git a/cuba/index.html b/cuba/index.html
@@ -43,7 +43,7 @@
         "name": "Live Power Outage Map",
         "url": "https://blackoutsmap.com/"
       },
-      "dateModified": "2026-11-24T09:00:00-06:00",
+      "dateModified": "2026-11-24T10:50:00-06:00",
       "inLanguage": "en",
       "breadcrumb": {
         "@id": "https://blackoutsmap.com/cuba/#breadcrumb"
@@ -86,7 +86,7 @@
     <nav class="breadcrumb back-link" aria-label="Breadcrumb"><a href="../">← Live worldwide power outage map</a> <span aria-hidden="true">/</span> <span aria-current="page">Cuba Power Outage Today</span></nav>
     <header class="top">
       <h1>Cuba Power Outage Today</h1>
-      <p class="dateline">As of <strong>9:00 AM CT, Tuesday, November 24, 2026</strong><br>Times in Central Time (CT)</p>
+      <p class="dateline">As of <strong>10:50 AM CT, Tuesday, November 24, 2026</strong><br>Times in Central Time (CT)</p>
     </header>
     <p class="region-lede">Unofficial snapshot of significant power outages in Cuba. Figures come from public utility and news reports and are not invented. Confirm any outage with the local utility. For the latest worldwide list, see the <a href="../">live power outage map</a>.</p>
     <section class="panel" aria-labelledby="table-heading">
